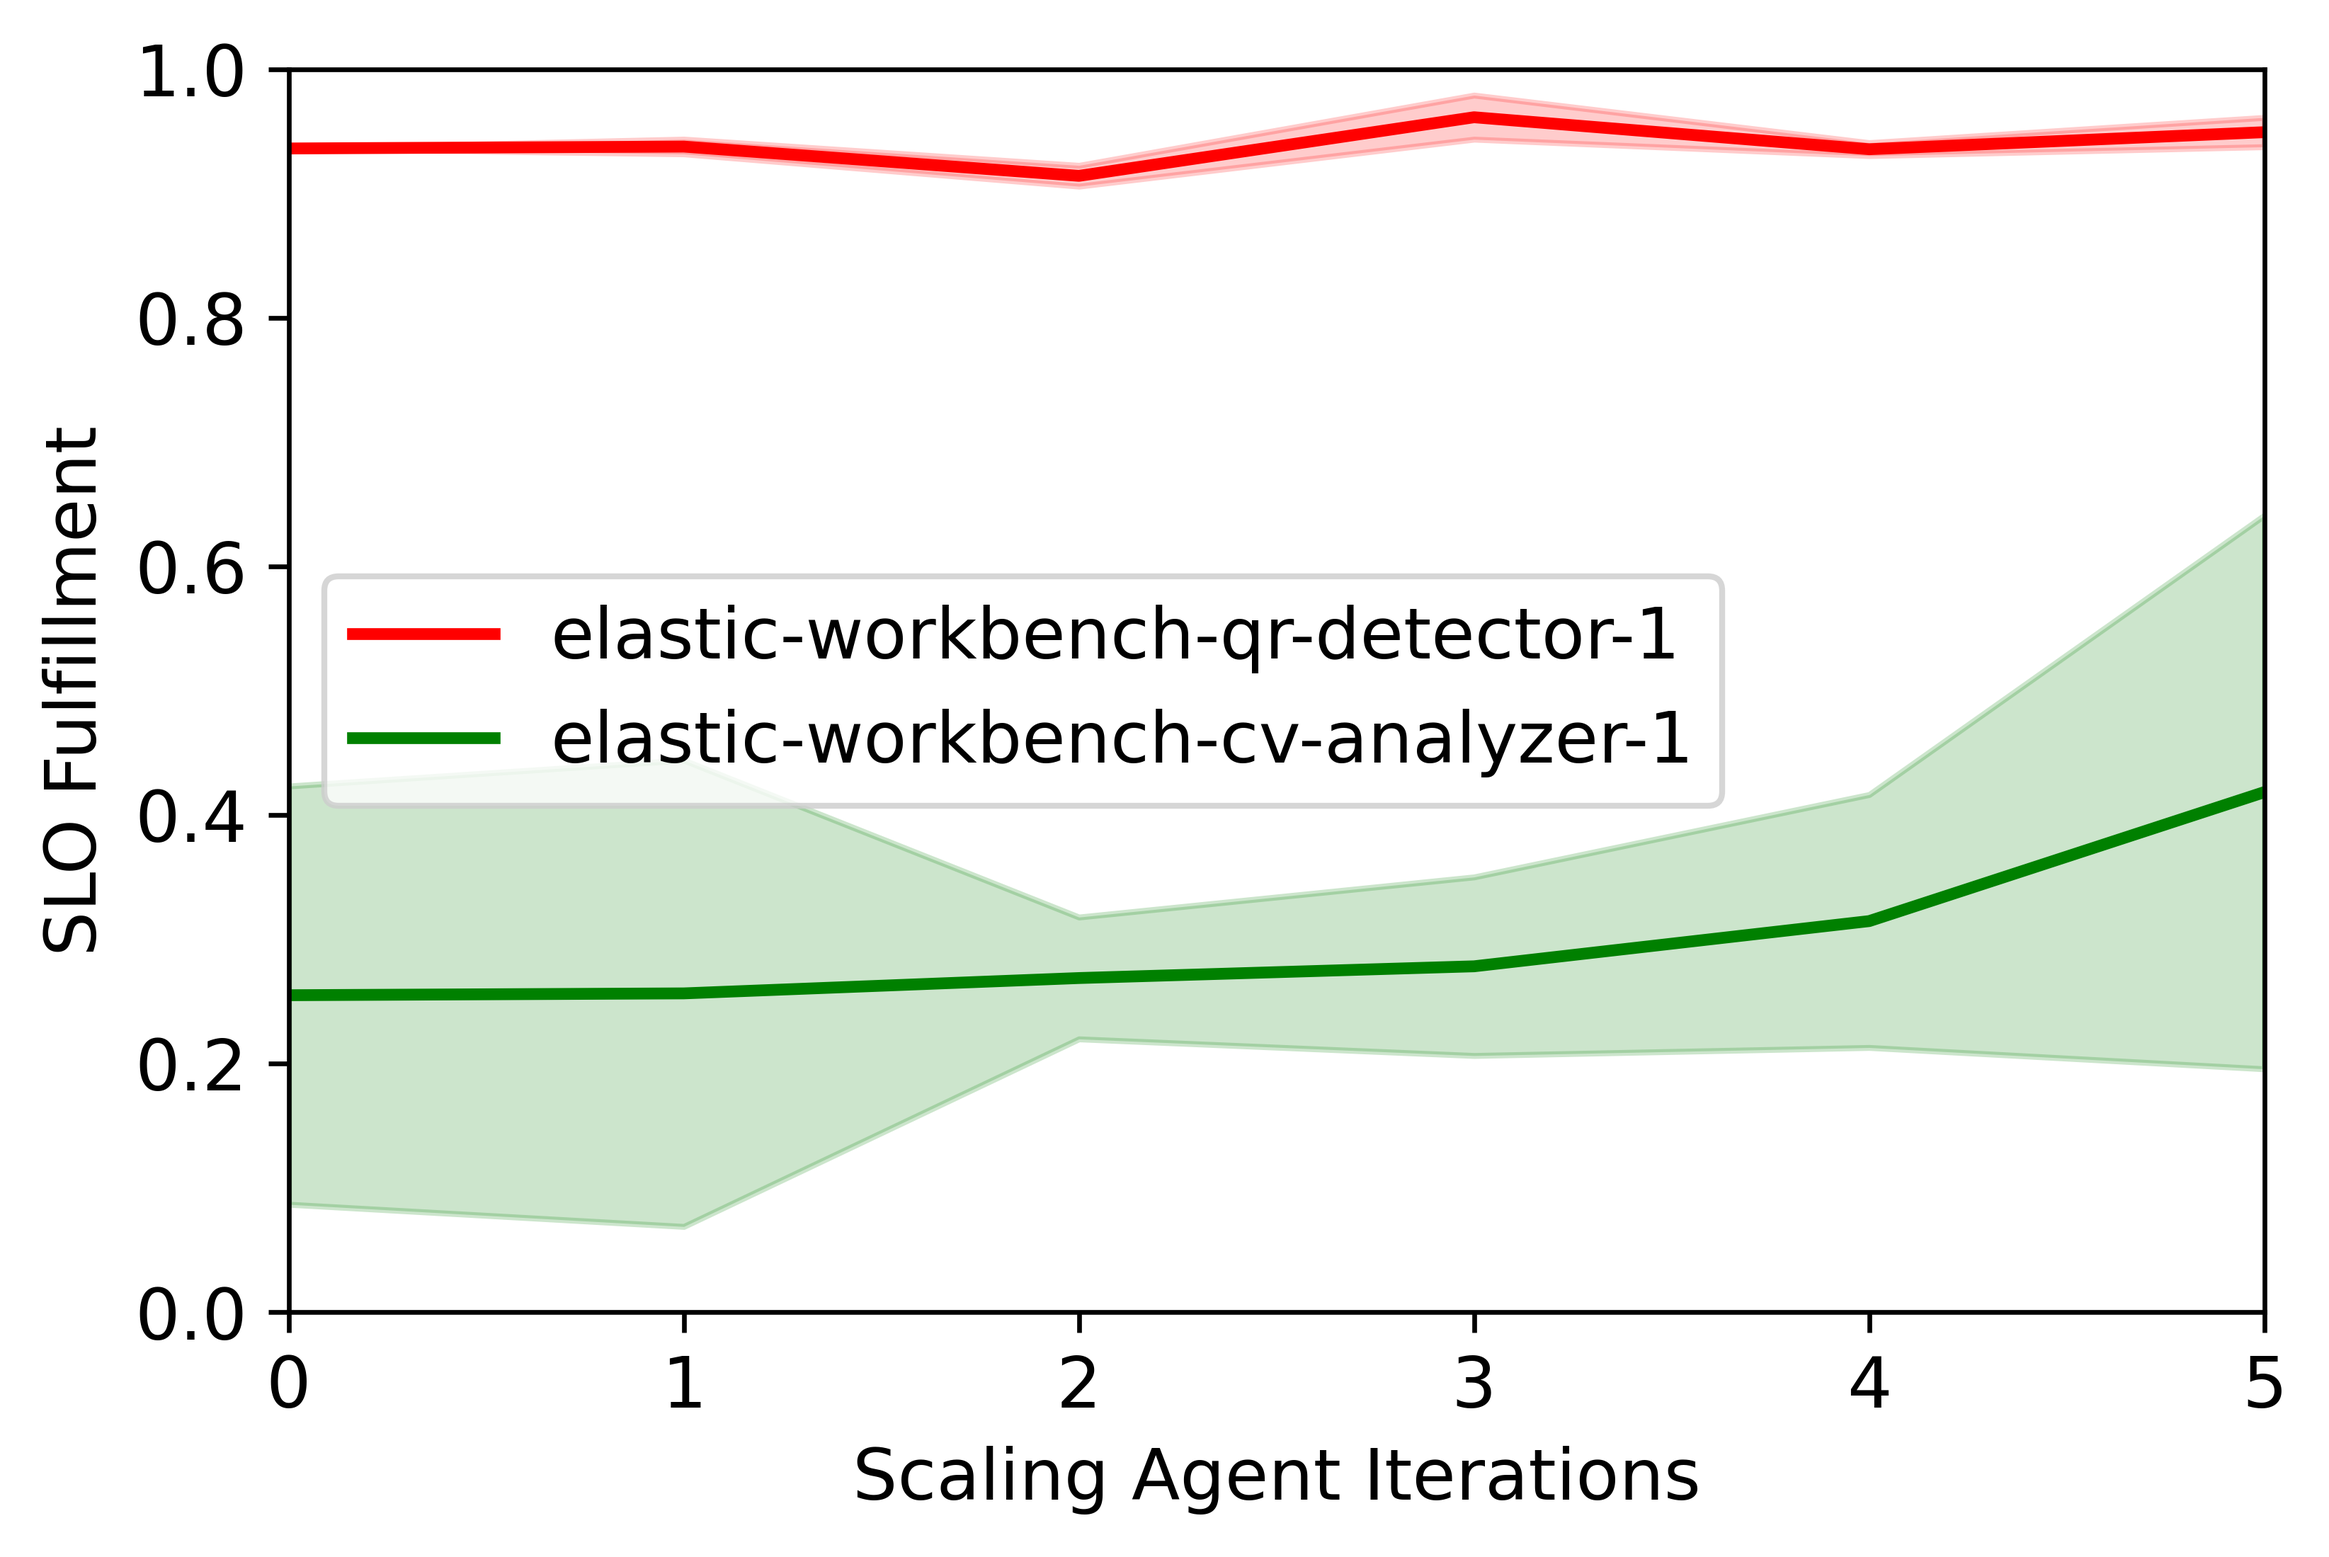
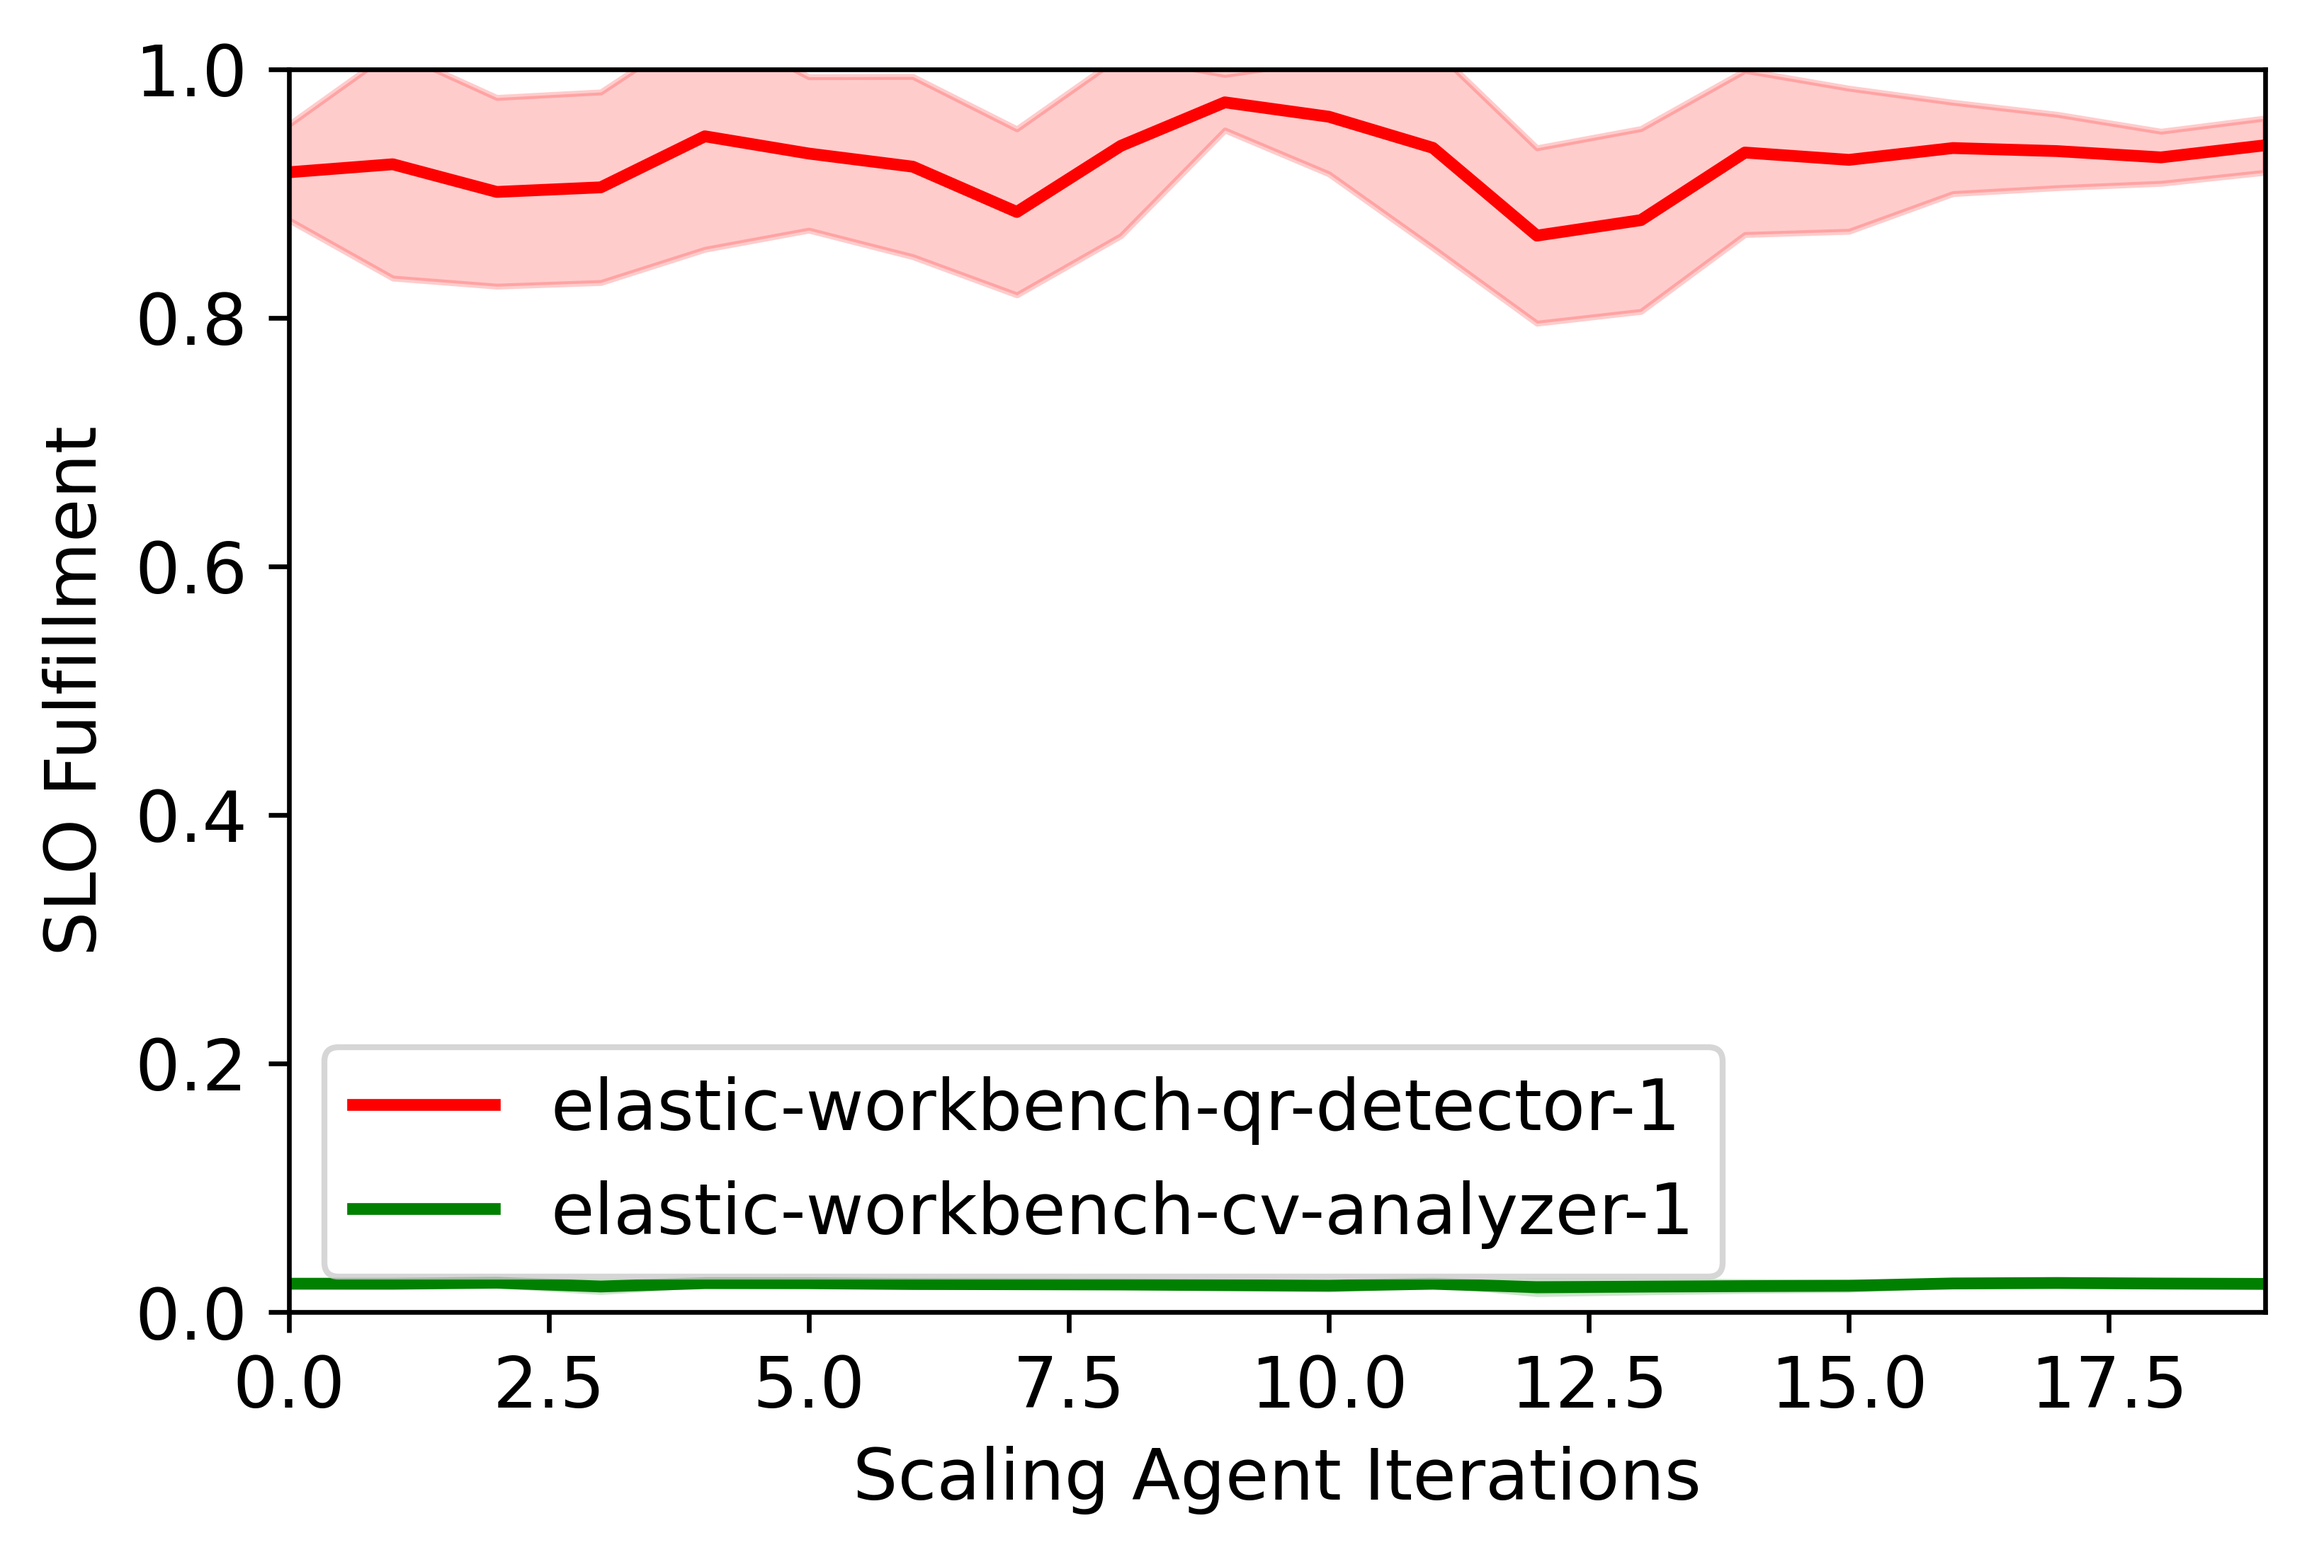
load all models at once for smooth scaling between model_sizes

diff --git a/iot_services/CvAnalyzer_Yolo/CvAnalyzer.py b/iot_services/CvAnalyzer_Yolo/CvAnalyzer.py
@@ -1,7 +1,6 @@
 import concurrent.futures
 import logging
 import os
-import threading
 import time
 from typing import Any
 
@@ -20,7 +19,6 @@ logger = logging.getLogger("multiscale")
 CONTAINER_REF = utils.get_env_param("CONTAINER_REF", "Unknown")
 ROOT = os.path.dirname(__file__)
 
-next_detector: YOLOv8 = None
 
 # WRITE: Show the impact of resources on throughput and that this is heavily penalized
 class CvAnalyzer(IoTService):
@@ -30,30 +28,17 @@ class CvAnalyzer(IoTService):
         self.service_type = ServiceType.CV
         self.video_stream = VideoReader(ROOT + "/data/CV_Video.mp4")
 
-        self.detector: YOLOv8 = None
-        self.next_detector: YOLOv8 = None
-        self.load_model()
+        self.detectors: dict[int, YOLOv8] = {}
+        self.load_models()
         self.metric_buffer = []
 
-    def change_config(self, new_config):
-        model_size_changed = new_config['model_size'] != self.service_conf['model_size']
-        logger.info(f"{new_config['model_size']}, {self.service_conf['model_size']}")
-        self.service_conf = new_config
-
-        if model_size_changed:
-            self.reinitialize_models()
-
-        logger.info(f"{self.service_type} changed to {new_config}")
-
-    def load_model(self):
-        logger.info(f"Loading Detector with Yolov8{yolo_model_sizes[self.service_conf['model_size']]}")
-        model_path = ROOT + f"/models/yolov8{yolo_model_sizes[self.service_conf['model_size']]}.onnx"
-        new_detector = YOLOv8(model_path, conf_threshold=0.3)
-        self.next_detector = new_detector  # Assignment happens only after loading
-
-    @utils.print_execution_time
-    def reinitialize_models(self):
-        threading.Thread(target=self.load_model, daemon=True).start()
+    # @utils.print_execution_time
+    def load_models(self):
+        for i in range(1, 6):
+            # logger.info(f"Loading Detector with Yolov8{yolo_model_sizes[self.service_conf['model_size']]}")
+            model_path = ROOT + f"/models/yolov8{yolo_model_sizes[i]}.onnx"
+            detector = YOLOv8(model_path, conf_threshold=0.3)
+            self.detectors[i] = detector
 
     def process_one_iteration(self, frame) -> (Any, int):
         start = time.perf_counter()
@@ -64,7 +49,7 @@ class CvAnalyzer(IoTService):
         resized_frame = cv2.resize(frame, (int(original_width / ratio), int(original_height / ratio)))
 
         # detector_index = int(threading.current_thread().name.split("_")[1])
-        class_ids, boxes, confidences = self.detector(resized_frame)
+        class_ids, boxes, confidences = self.detectors[self.service_conf['model_size']](resized_frame)
         combined_img = draw_detections(resized_frame, boxes, confidences, class_ids)
 
         # Resulting image and total processing time
@@ -73,11 +58,6 @@ class CvAnalyzer(IoTService):
 
     def process_loop(self):
         while self._running:
-
-            # TODO: This also did not fix the issue....
-            if self.detector is None:
-                self.detector = self.next_detector
-                self.next_detector = None
 
             executor = concurrent.futures.ThreadPoolExecutor(max_workers=1)
             start_time = time.perf_counter()

diff --git a/results/IWAI_A1/A1.py b/results/IWAI_A1/A1.py
@@ -20,16 +20,16 @@ ROOT = os.path.dirname(__file__)
 plt.rcParams.update({'font.size': 12})
 
 nn_folder = "./networks"
-EXPERIMENT_REPETITIONS = 3
-EXPERIMENT_DURATION = 90
-MAX_EXPLORE = 0
+EXPERIMENT_REPETITIONS = 5
+EXPERIMENT_DURATION = 100
+MAX_EXPLORE = 15
 
 ps = "http://172.20.0.2:9090"
 
 qr_local = ServiceID("172.20.0.5", ServiceType.QR, "elastic-workbench-qr-detector-1")
 cv_local = ServiceID("172.20.0.10", ServiceType.CV, "elastic-workbench-cv-analyzer-1")
 
-EVALUATION_FREQUENCY = 15
+EVALUATION_FREQUENCY = 5
 MAX_CORES = int(utils.get_env_param('MAX_CORES', 8))
 
 slo_registry = SLO_Registry("./config/slo_config.json")
@@ -70,7 +70,7 @@ def eval_DQN_agent():
 
 def eval_RRM_agent():
     delete_file_if_exists("./agent_experience.csv")
-    # delete_file_if_exists("../../share/metrics/metrics.csv")
+    delete_file_if_exists("../../share/metrics/metrics.csv")
 
     print(f"Starting experiment for Agent")
 
@@ -80,7 +80,7 @@ def eval_RRM_agent():
                                  es_registry_path="./config/es_registry.json",
                                  log_experience=rep, max_explore=MAX_EXPLORE)
         agent.reset_services_states()
-        time.sleep(5)  # Needs a couple of seconds after resetting the services (i.e., calling ES)
+        time.sleep(4)  # Needs a couple of seconds after resetting the services (i.e., calling ES)
 
         agent.start()
         time.sleep(EXPERIMENT_DURATION)
@@ -167,6 +167,6 @@ if __name__ == '__main__':
 
     # train_q_network()
     # eval_DQN_agent()
-    # eval_RRM_agent()
+    eval_RRM_agent()
     visualize_data(["agent_experience.csv"], ROOT +"/plots/slo_f.png")
     sys.exit()

diff --git a/iot_services/IoTService.py b/iot_services/IoTService.py
@@ -58,12 +58,9 @@ class IoTService(ABC):
         self.prom_quality.labels(container_id=self.docker_container_ref, service_type=self.service_type.value,
                                  metric_id="quality").set(self.service_conf['quality'])
 
-        logger.info(f"Set quality with config {self.service_conf}")
-
         if self.service_type == ServiceType.CV:
             self.prom_model_size.labels(container_id=self.docker_container_ref, service_type=self.service_type.value,
                                         metric_id="model_size").set(self.service_conf['model_size'])
-        # elif self.service_type in [ServiceType.QR, ServiceType.QR_DEPRECATED]:
 
 
         if self.store_to_csv:

diff --git a/agent/ScalingAgent.py b/agent/ScalingAgent.py
@@ -54,9 +54,8 @@ class ScalingAgent(Thread, ABC):
         metric_values = self.prom_client.get_metrics(["avg_p_latency", "throughput"], service_id, period="10s")
         parameter_ass = self.prom_client.get_metrics(["quality", "cores", "model_size"], service_id)
 
-        if metric_values == {} and parameter_ass == {}:
-            return {}
-        elif parameter_ass == {}:
+        if parameter_ass == {} or metric_values == {}:
+            logger.warning(f"No metrics found for service {service_id}") # Remove if never happens
             return self.last_known_state
 
         missing_vars = calculate_missing_vars(metric_values, utils.to_absolut_rps(assigned_clients))

diff --git a/iot_services/Service_Wrapper.py b/iot_services/Service_Wrapper.py
@@ -1,5 +1,6 @@
 import logging
 
+import numpy as np
 from flask import Flask, request
 
 import utils
@@ -91,7 +92,8 @@ class ServiceWrapper:
         return ""
 
     def model_scaling(self):
-        model_size = round(float(request.args.get('model_size')))
+        # TODO: For all strategies here, I should clip them to the ES parameter bounds
+        model_size = np.clip(round(float(request.args.get('model_size'))), 1, 5)
         s_conf = self.service.service_conf.copy()
         s_conf['model_size'] = model_size
 
